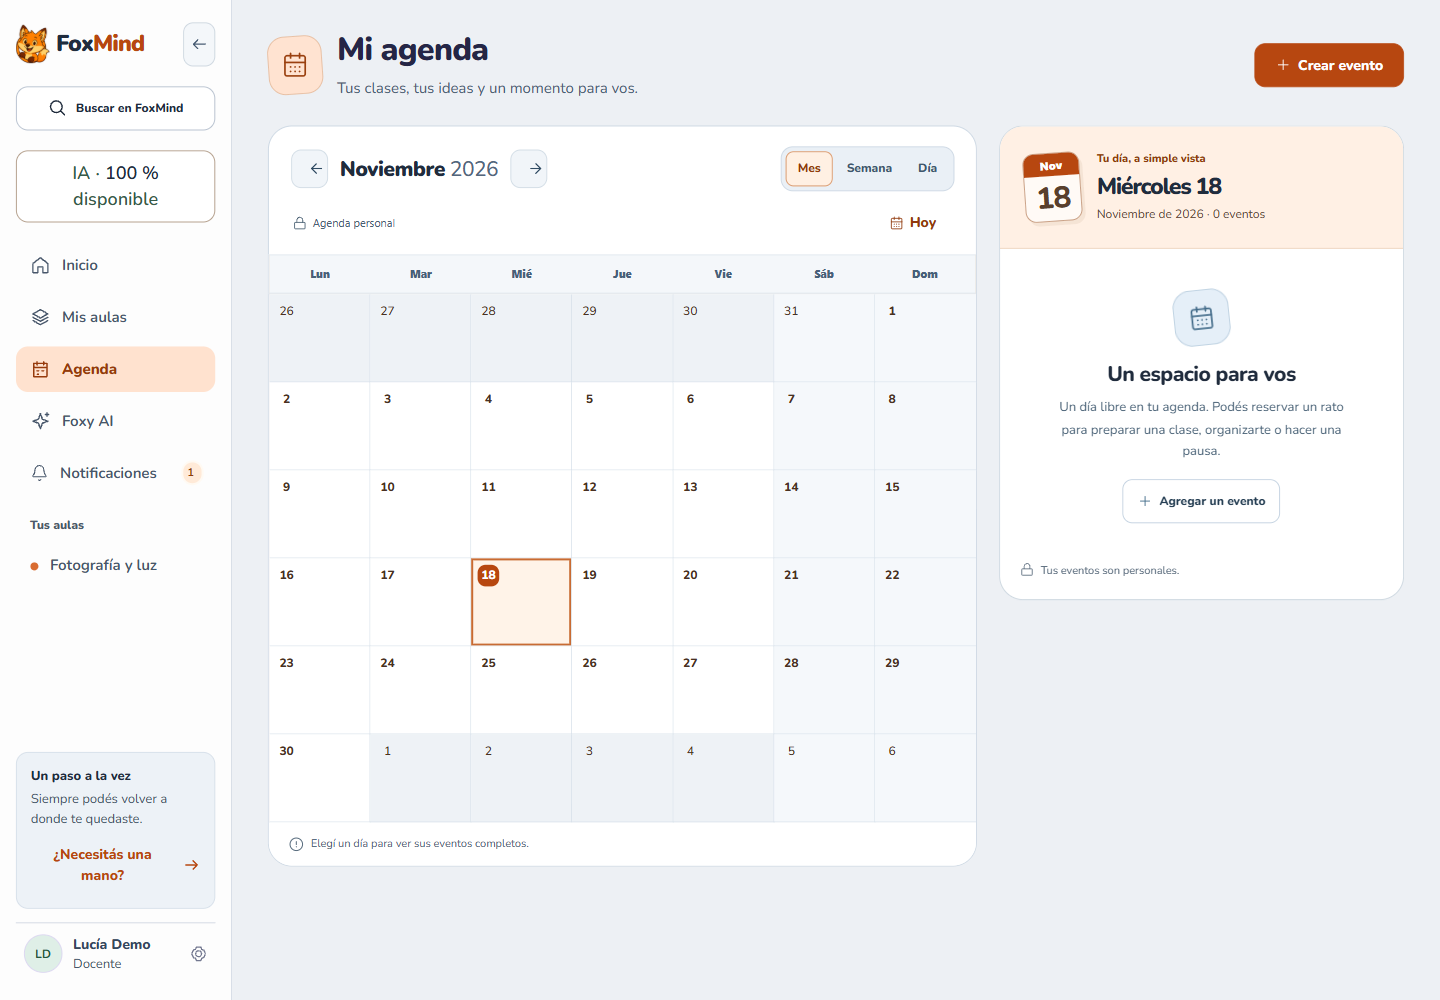
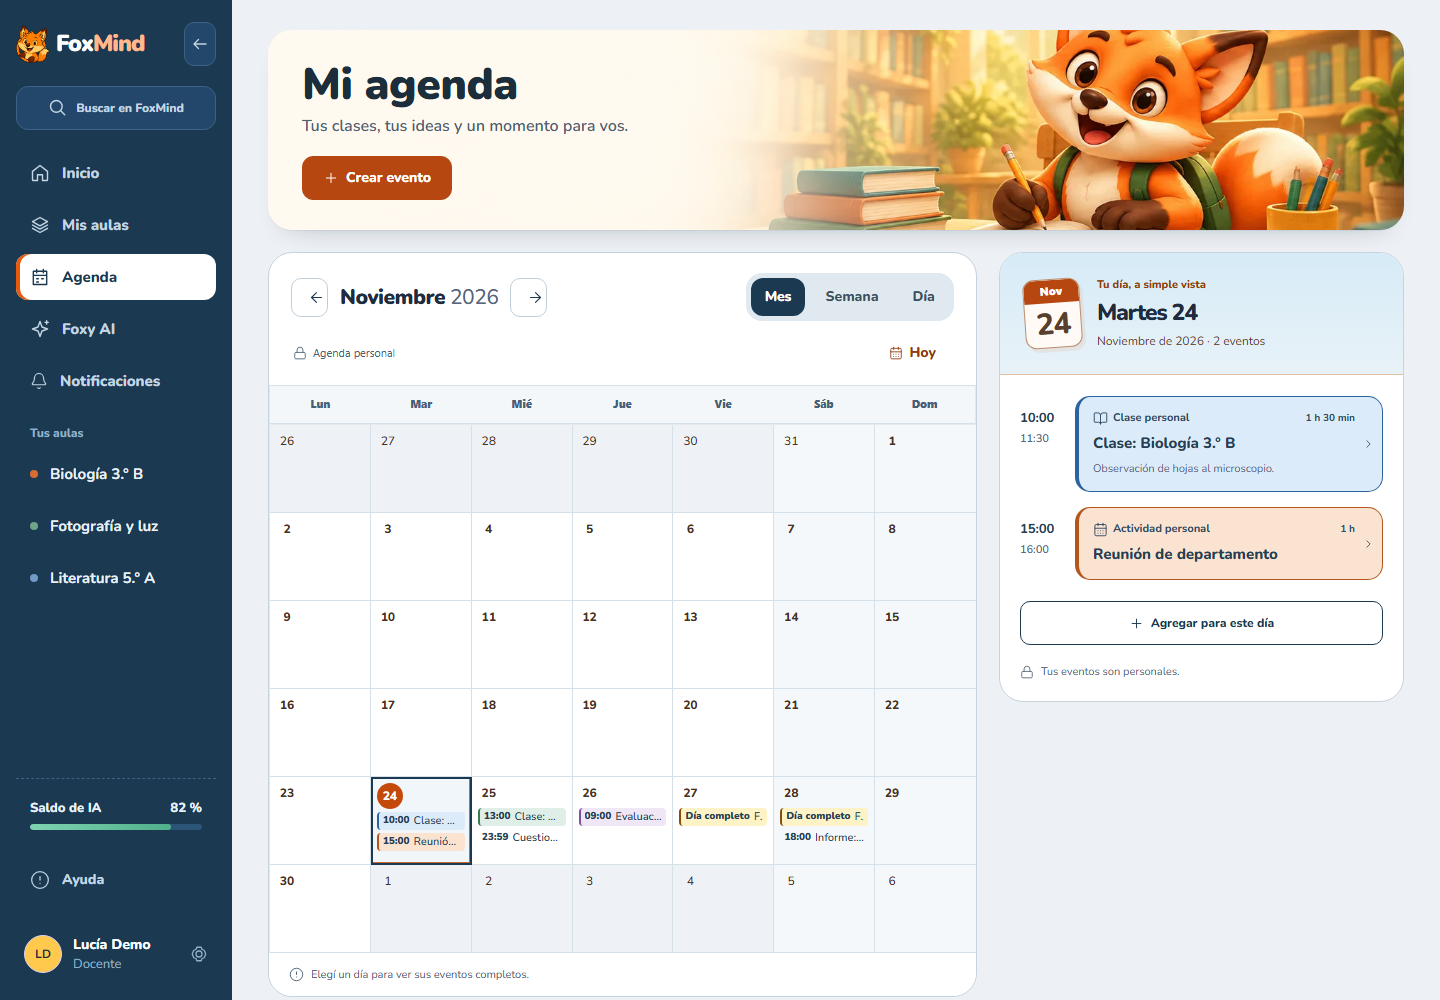
docs: document the Expedición Agenda with refreshed captures and board
Four Agenda captures renewed and a new Semana capture (48 catalog entries with
matching sha256), the design guide and flows matrix updated, plus the work log
and the TTP board with both tasks closed.

diff --git a/odd/tasks/expedition-agenda.md b/odd/tasks/expedition-agenda.md
@@ -1,0 +1,49 @@
+# Feature: Agenda en dirección Expedición
+
+- **Spec:** #especificacion
+- **Design:** #diseno
+- **Approval:** approved
+- **Evidence mode:** candidate-v1
+- **Trace mode:** requirements-v1
+
+El 2026-11-24 el usuario pidió seguir la migración Expedición con Agenda («Mientras tanto, seguí con la migración de Agenda»), sobre el lenguaje aprobado en el piloto y en Mis aulas. La autorización cubre la migración visual sin cambios de comportamiento. Commit, push y PR los autorizó después (ver Seguimiento Git). No hay autorización de despliegue.
+
+## Especificacion
+
+- **REQ-001:** Agenda adopta Expedición: banner con ilustración y acción Crear evento, vistas Mes, Semana y Día como pestañas segmentadas, día elegido en lago con contador centrado, panel del día en cielo y opción elegida del editor en lago. Los colores de los eventos no cambian.
+- **REQ-002:** Se corrigen dos defectos de presentación: el título del día ponía mayúscula en cada palabra y «Día completo» se partía letra por letra en la columna de la hora de Semana.
+- **REQ-003:** No cambia el comportamiento: datos, vistas, foco, editor y permisos siguen igual.
+
+## Diseno
+
+Mismos tokens y tipografía que el piloto (`--xp-*`, Nunito). Las hojas de Agenda llegan a dos ids (`#agenda-main#agenda-main`), así que la hoja nueva se ancla con `#foxmind-product#foxmind-product.fm3d-theme #agenda-main#agenda-main`. El banner usa `foxmind-3d/agenda-reference/agenda-hero-1600.webp`.
+
+## Seguimiento Git
+
+Rama `claude/agenda-expedition`, creada desde `22b7c743` (punta de `claude/classrooms-expedition`, PR 19). El 2026-11-24 el usuario autorizó commitear y abrir el PR («Sí, commiteá la Agenda y abrí el PR»), apilado sobre el PR 19. No hay autorización de merge ni de despliegue.
+
+## Tasks
+
+### TASK-001 — Agenda con el lenguaje Expedición
+- **State:** DONE
+- **Depends on:** none
+- **Owner:** orchestrator
+- **Requirements:** REQ-001, REQ-002, REQ-003
+- **Verification:** tests/expedition-agenda.test.mjs; navegador Mes, Semana, Día y editor a 1440 y 390 px
+- **Scope:** ["apps/web/src/features/agenda/styles/expedition-agenda.css", "tests/expedition-agenda.test.mjs"]
+- **Acceptance:** Las tres vistas y el editor muestran el banner, las pestañas segmentadas, el día elegido en lago con contador centrado y el panel en cielo, sin desborde a 1440 y 390 px. El título del día respeta la ortografía y «Día completo» no se corta.
+- **Evidence:** {"command": "node --test tests/expedition-agenda.test.mjs; run-complete-suite --group fast; navegador Mes, Semana, Día, detalle y editor", "result": "2/2 y fast 3135 pass; banner, vistas segmentadas, día elegido en lago con contador centrado, panel en cielo, título del día con ortografía correcta, Día completo sin cortes; ambos roles a 1440 y 390 sin desborde", "candidate": "sha256:07fdc41913529369f1588b2a52dcc3ddeb6888dabb079077d5770f1c7ec397f4"}
+- **Blocker:** none
+
+### TASK-002 — Documentación, capturas y registro de suites
+- **State:** DONE
+- **Depends on:** TASK-001
+- **Owner:** orchestrator
+- **Requirements:** REQ-001
+- **Verification:** node scripts/check-documentation.mjs; sha256 del catálogo; run-complete-suite --check
+- **Scope:** ["apps/web/src/application/shell/styles/product.css", "scripts/complete-suite-inventory.json", "scripts/complete-suite-routes.json", "scripts/ci-suites.mjs", "docs/design/README.md", "docs/design/current/README.md", "docs/design/current/catalog.json", "docs/verification/flows.md", "docs/work-log/2026-11-24-expedition-agenda.md"]
+- **Acceptance:** La guía de diseño, la galería (5 capturas de Agenda) y la matriz de flujos describen la Agenda Expedición; el catálogo coincide en sha256 y la prueba nueva está clasificada en las suites.
+- **Evidence:** {"command":"node scripts/check-documentation.mjs; verificaci\u00f3n sha256 del cat\u00e1logo; run-complete-suite --check","result":"1080 enlaces sin problemas; 48 capturas coincidentes (4 de Agenda renovadas y 1 nueva); 728 pruebas clasificadas. Repetida tras registrar la autorizaci\u00f3n de commit y PR en el registro de trabajo.","candidate":"sha256:cafdbc9e1ff112d9ad072a82245004607ee45a3bce090a46e61f4cf9b3a75614"}
+- **Blocker:** none
+- **Reopen reason:** Registro de trabajo actualizado con la autorización de commit y PR
+

diff --git a/docs/design/README.md b/docs/design/README.md
@@ -6,7 +6,7 @@ La [maqueta HTML interactiva](../../design/foxmind-ui-lab/01-foxmind.html) inclu
 
 ## Lenguaje visual Expedición
 
-Expedición reemplaza a Brújula en el acceso, la barra lateral privada, Inicio y Mis aulas. Agenda, Foxy, Mi estudio, Notificaciones y Perfil conservan su contenido en Brújula y comparten la barra lateral Expedición. [Tablero del piloto](../../odd/tasks/expedition-visual.md) · [Tablero de Mis aulas](../../odd/tasks/expedition-classrooms.md) · [Maquetas aprobadas](../../design/auth-home-refresh/expedicion.html) · [Maqueta de Mis aulas](../../design/mis-aulas/index.html)
+Expedición reemplaza a Brújula en el acceso, la barra lateral privada, Inicio, Mis aulas y Agenda. Foxy, Mi estudio, Notificaciones y Perfil conservan su contenido en Brújula y comparten la barra lateral Expedición. [Tablero del piloto](../../odd/tasks/expedition-visual.md) · [Tablero de Mis aulas](../../odd/tasks/expedition-classrooms.md) · [Maquetas aprobadas](../../design/auth-home-refresh/expedicion.html) · [Maqueta de Mis aulas](../../design/mis-aulas/index.html)
 
 | Decisión | Cómo aplicarla |
 |---|---|
@@ -70,7 +70,7 @@ Mi estudio separa Activas, Borradores y Archivadas. Crear carpeta recorre identi
 
 ## Agenda
 
-Mes es la vista inicial en escritorio y móvil. Mes, Semana y Día comparten la fecha seleccionada. Un enlace explícito puede abrir otra vista. El panel de Mes se muestra a la derecha en escritorio y debajo del calendario en pantallas angostas. Al elegir una fecha, el foco llega al panel. Las fichas reúnen hora, tipo y color. El detalle y su confirmación se abren sobre el calendario. El editor presenta categorías reales como tarjetas, fecha y horas, repetición y anticipación del aviso. La vista previa muestra azul, verde, naranja, rosa, violeta o pizarra. Los eventos antiguos conservan sus colores adicionales. Los repasos confirmados desde Estudio enlazan al examen y a su carpeta. [Reglas de Agenda](../engineering/agenda/README.md) · [Capturas](current/README.md#agenda)
+La agenda abre con el banner de Expedición (el zorro escribiendo en su escritorio) y la acción Crear evento debajo del texto. Mes, Semana y Día se eligen con pestañas segmentadas; el día elegido se marca en lago, con su contador en sol, y el panel del día lleva una banda celeste. Los títulos de día respetan la ortografía («Martes, 24 de noviembre») y «Día completo» no se corta en la columna de la hora. Los colores de los eventos son los que elige cada persona. Mes es la vista inicial en escritorio y móvil. Mes, Semana y Día comparten la fecha seleccionada. Un enlace explícito puede abrir otra vista. El panel de Mes se muestra a la derecha en escritorio y debajo del calendario en pantallas angostas. Al elegir una fecha, el foco llega al panel. Las fichas reúnen hora, tipo y color. El detalle y su confirmación se abren sobre el calendario. El editor presenta categorías reales como tarjetas, fecha y horas, repetición y anticipación del aviso. La vista previa muestra azul, verde, naranja, rosa, violeta o pizarra. Los eventos antiguos conservan sus colores adicionales. Los repasos confirmados desde Estudio enlazan al examen y a su carpeta. [Reglas de Agenda](../engineering/agenda/README.md) · [Capturas](current/README.md#agenda)
 
 ## Notificaciones
 

diff --git a/docs/work-log/2026-11-24-expedition-agenda.md b/docs/work-log/2026-11-24-expedition-agenda.md
@@ -1,0 +1,39 @@
+# Agenda en dirección Expedición · 24 de noviembre de 2026
+
+## Pedido y alcance
+
+- **Pedido:** «Mientras tanto, seguí con la migración de Agenda», mientras otra sesión investiga los fallos de CI de `main`.
+- **Alcance:** migración visual con el lenguaje aprobado en el piloto y en Mis aulas, sin cambios de comportamiento.
+- **Rama:** `claude/agenda-expedition`, apilada sobre `claude/classrooms-expedition` (PR 19).
+- **Autorización:** el usuario autorizó commit, push y PR («Sí, commiteá la Agenda y abrí el PR»). No cubre merge ni despliegue.
+- **Tablero:** [odd/tasks/expedition-agenda.md](../../odd/tasks/expedition-agenda.md).
+
+## Cambios
+
+- **Hoja nueva:** `apps/web/src/features/agenda/styles/expedition-agenda.css`. Se ancla con cuatro ids, porque las hojas de Agenda ya usan `#agenda-main#agenda-main`.
+- **Banner:** usa la ilustración `agenda-hero` y deja Crear evento debajo del texto, para no tapar al zorro.
+- **Vistas y días:** Mes, Semana y Día son pestañas segmentadas. El día elegido va en lago con su contador en sol; en Mes, el día elegido lleva contorno lago y hoy conserva su marca naranja.
+- **Panel del día:** banda celeste, y «Agregar para este día» como botón secundario lago.
+- **Editor:** la categoría elegida se marca en lago.
+- **Defectos corregidos:**
+  - el título del día ponía mayúscula en cada palabra («Martes, 24 De Noviembre»);
+  - «Día completo» se partía letra por letra en la columna de la hora de Semana.
+
+## Verificación
+
+- **Navegador:** `next dev` del worktree contra una API sintética local con clases, actividades, una evaluación, un evento de dos días y entregas del aula. Se revisaron Mes, Semana, Día, el detalle y el editor, con ambos roles a 1440 y 390 px, sin desborde.
+- **Capturas:** 4 capturas de Agenda renovadas y 1 nueva (Semana), con sha256 verificado. El catálogo tiene 48 entradas.
+- **Comandos:**
+  - `node --test tests/expedition-agenda.test.mjs`: 2/2.
+  - `run-complete-suite --check`: 728 pruebas clasificadas.
+  - `run-complete-suite --group fast`: 3135 aprobadas y 0 fallidas.
+
+## Fallos, omisiones y límites
+
+- **Sin cambios:** el detalle de un evento y las fichas conservan su estilo, que ya era coherente; los colores de los eventos son los que elige cada persona.
+- **Entregas del aula:** las fichas muestran la zona horaria cruda («America/Argentina/Buenos_Aires»). Es un texto del componente, fuera de esta migración visual.
+- **No ejecutadas:** las suites de integración con PostgreSQL y Docker.
+
+## Primer paso pendiente
+
+1. Revisar el PR apilado sobre el PR 19 y su CI. El merge espera la integración de los PR 18 y 19 y la decisión del usuario.

diff --git a/docs/verification/flows.md b/docs/verification/flows.md
@@ -2,6 +2,16 @@
 
 Los resultados de esta matriz corresponden a los candidatos, fechas y entornos indicados en cada bloque. La galería del 18 de noviembre documenta su propio recorrido de la aplicación. [Galería vigente](../design/current/README.md) · [Índice de verificación](README.md).
 
+## Agenda en dirección Expedición · 24 de noviembre
+
+Resultado: **PASS local UI, sin integrar ni commitear**. Candidato: rama `claude/agenda-expedition`, apilada sobre el PR 19.
+
+- **Pruebas:** `expedition-agenda` (anclaje de la hoja, contador centrado, título del día y «Día completo») y la suite `fast` completa: 3135/3135.
+- **Navegador real:** `next dev` del worktree contra una API sintética con eventos y entregas. Mes, Semana, Día, detalle y editor, con ambos roles a 1440 y 390 px, sin desborde.
+- **No ensayado:** las suites de integración con PostgreSQL y Docker.
+
+[Registro](../work-log/2026-11-24-expedition-agenda.md) · [Tablero](../../odd/tasks/expedition-agenda.md) · [Capturas](../design/current/README.md#agenda)
+
 ## Mis aulas en dirección Expedición · 24 de noviembre
 
 Resultado: **PASS local UI, sin integrar**. Candidato: rama `claude/classrooms-expedition`, apilada sobre el PR 18.

diff --git a/docs/design/current/README.md b/docs/design/current/README.md
@@ -49,6 +49,7 @@ Capturas del 18 de noviembre de 2026 en Ego Lite sobre la aplicación compilada 
 | Vista | Docente | Estudiante |
 |---|---|---|
 | Mes | [Escritorio](vigente-agenda-docente-1440.png) · [Móvil](vigente-agenda-docente-390.png) | [Escritorio](vigente-agenda-estudiante-1440.png) · [Móvil](vigente-agenda-estudiante-390.png) |
+| Semana | [Escritorio](vigente-agenda-semana-docente-1440.png) | — |
 
 ## Cuota mensual de IA
 
